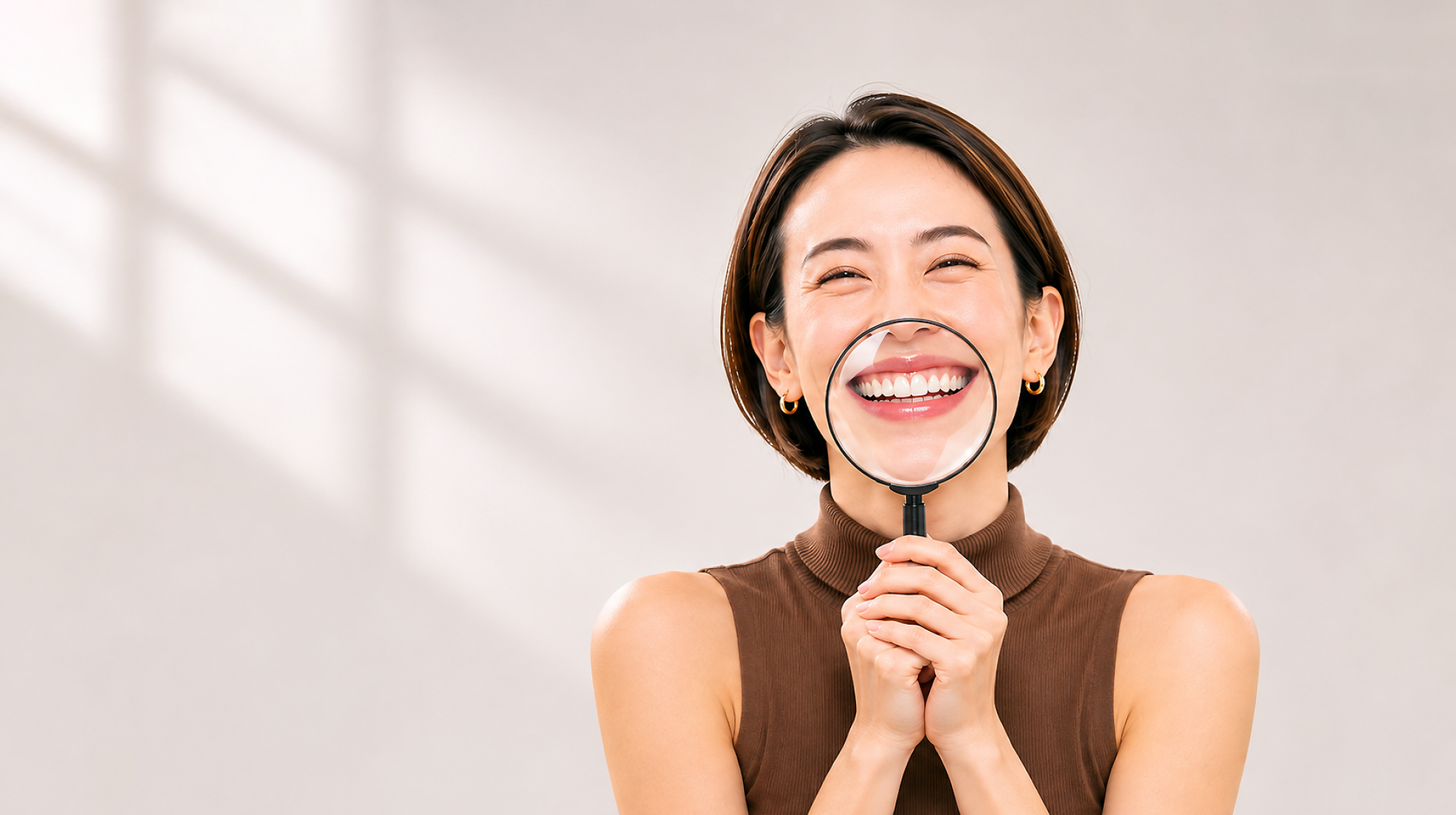
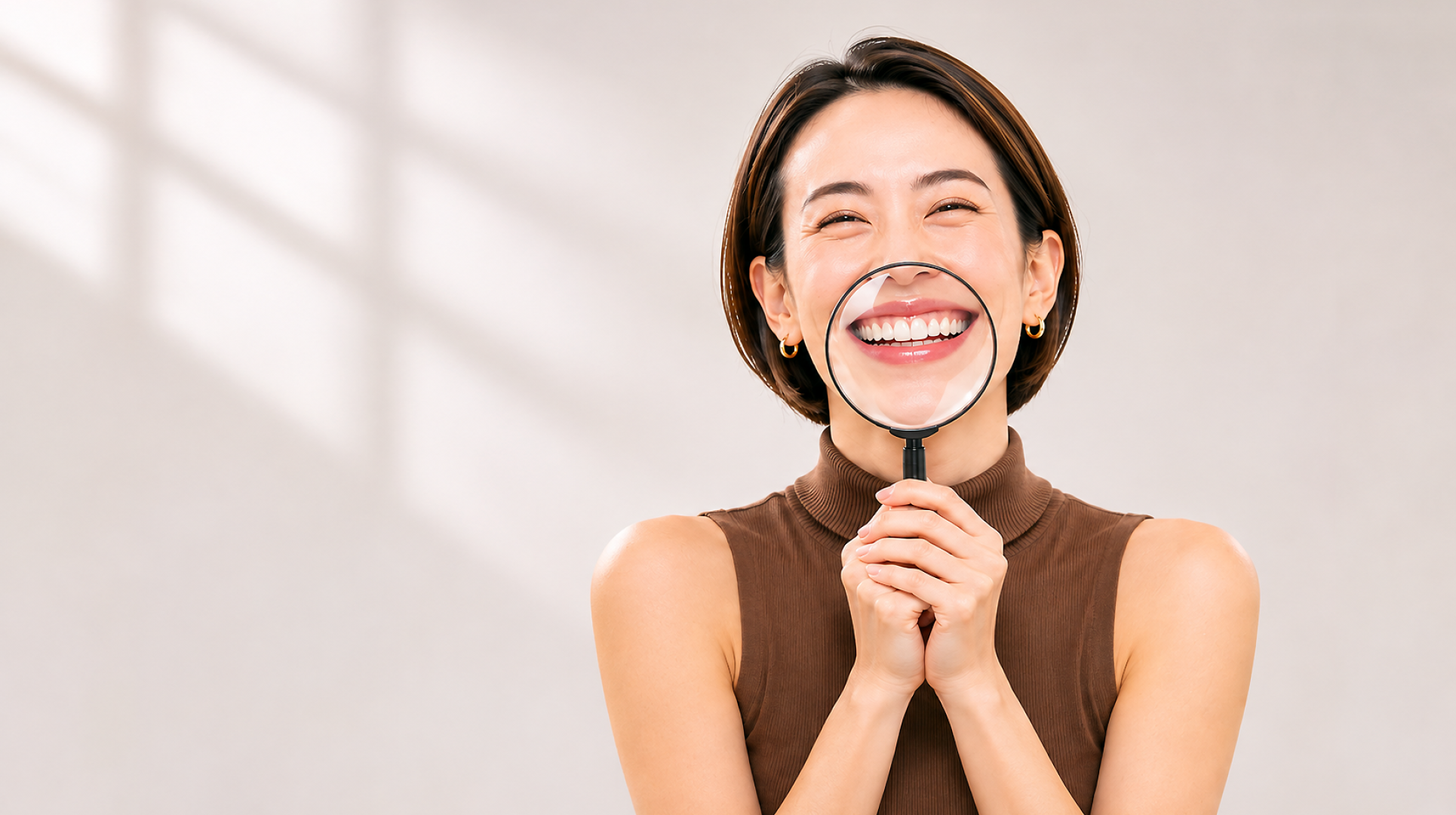
Update B portrait, solid header and latest editorial refinements

diff --git a/smile-rwd-B/index.html b/smile-rwd-B/index.html
@@ -18,7 +18,7 @@
   <!-- 載入外觀樣式表與動態效果表 -->
   <link rel="stylesheet" href="styles.css">
   <link rel="stylesheet" href="animations.css">
-  <link rel="stylesheet" href="responsive.css?v=mobile-diet-card-height-221">
+  <link rel="stylesheet" href="responsive.css?v=b-soft-header-shadow-243">
 
   <style>
     /* 康健標準 Header 專屬樣式 */
@@ -116,7 +116,7 @@
     }
   </style>
   <link rel="stylesheet" href="typography.css?v=editorial-intro-164">
-  <link rel="stylesheet" href="hero-photo.css?v=b-copy-down20-226">
+  <link rel="stylesheet" href="hero-photo.css?v=b-copy-down5-250">
   <link href="https://fonts.googleapis.com/css2?family=Noto+Serif+TC:wght@900&amp;display=block&amp;text=%E7%9F%AF%E6%AD%A3%E5%89%8D%EF%BC%8C%E5%85%88%E7%9C%8B%E6%87%82%E4%BB%A3%E5%83%B9" rel="stylesheet">
 
   <script>document.documentElement.classList.add('fonts-pending');window.smileFontsReady=new Promise(function(resolve){window.resolveSmileFonts=resolve;});</script>
@@ -170,7 +170,7 @@
       <main id="editorial-main-content">
         <section class="w-full">
           <div class="photo-hero photo-hero-b">
- <div class="photo-hero-media"><img src="./images/hero-photo.png?v=227" alt="女性手持放大鏡，凸顯整齊明亮的笑容" width="1671" height="941" fetchpriority="high" decoding="async"></div>
+ <div class="photo-hero-media"><img src="./images/hero-photo-cover-reference-v6.png?v=249" alt="女性手持放大鏡，凸顯整齊明亮的笑容" width="1671" height="941" fetchpriority="high" decoding="async"></div>
  <div class="photo-hero-copy"><div class="photo-hero-copy-inner"><h1><span>矯正前，</span><span>先看懂代價</span></h1><p>打造完美笑容的安心法則</p></div></div>
  <button type="button" class="photo-hero-scroll" aria-label="捲動至內容"><svg viewBox="0 0 24 24" fill="none" stroke="currentColor" stroke-width="2" aria-hidden="true"><path d="m6 9 6 6 6-6"/></svg></button>
 </div>
@@ -201,13 +201,13 @@
                 <div class="shared-editorial">
                   <div class="w-9 sm:w-10 h-2.5 sm:h-3 bg-[#ffb400] mx-auto mb-4 chapter-heading-accent"></div>
                   <h2 class="type-normalized font-black text-[#1e4d9d] mb-5 font-sans leading-snug mx-auto transition-all" style="font-size: var(--editorial-title-size, 38px); letter-spacing: var(--editorial-title-spacing, 1.2px); text-align: var(--editorial-title-align, center);" data-type="chapter"><span class="">牙齒美學正夯！從咬合治療到笑容投資</span></h2>
-                  <div class="text-[#1e4d9d] mb-10 sm:mb-12 font-medium transition-all editorial-justify" style="font-size: var(--editorial-intro-size, 18px); line-height: var(--editorial-intro-line-height, 1.95); letter-spacing: var(--editorial-intro-spacing, 0.6px);"><p class="type-normalized " data-type="intro">牙齒矯正屬於全自費的牙科醫療，實際價格雖然依病例與治療計劃而異，但每次矯正幾乎平均為10萬元起跳。然而，矯正一口好牙依然是趨之若鶩。這樣的「燦笑經濟」能成形，也和30年來，家庭消費能力提升、健康意識抬頭密不可分。</p></div>
+                  <div class="text-[#1e4d9d] mb-10 sm:mb-12 font-medium transition-all editorial-justify" style="font-size: var(--editorial-intro-size, 18px); line-height: var(--editorial-intro-line-height, 1.95); letter-spacing: var(--editorial-intro-spacing, 0.6px);"><p class="type-normalized " data-type="intro">牙齒矯正屬於全自費的牙科治療，費用依個案與治療計劃而異。儘管每次矯正平均10萬元起跳，仍吸引不同世代投入。</p></div>
                   <div class="tooth-stats grid grid-cols-2 sm:flex sm:flex-row items-center justify-center mx-auto mb-10 sm:mb-14 gap-2.5 sm:gap-4" style="max-width: calc(1500px);">
                     <div class="relative aspect-[1016/893] w-full mx-auto group" style="max-width: 750px;">
                       <img alt="牙科自費療程關注度" class="w-full h-full object-contain select-none pointer-events-none" src="./images/tooth.png">
                       <div class="absolute inset-x-0 flex flex-col items-center px-1.5 sm:px-6 text-center select-none pointer-events-none transition-all duration-100" style="top: 22%;">
                         <h3 class="type-normalized font-black text-[#1e4d9d] leading-tight text-center transition-all" style="font-size: clamp(11px, 2.35vw, 23.5px); letter-spacing: 1px;" data-type="chart-title">牙科自費療程關注度</h3>
-                        <p class="type-normalized text-[#1e5fa8] font-semibold tracking-wide mt-0.5 sm:mt-1 transition-all" style="font-size: clamp(9px, 1.6vw, 15px);" data-type="chart-caption">矯正、隱形矯正、美白占</p>
+                        <p class="type-normalized text-[#1e5fa8] font-semibold tracking-wide mt-0.5 sm:mt-1 transition-all" style="font-size: clamp(9px, 1.6vw, 15px);" data-type="chart-caption">矯正、隱形矯正、美白佔</p>
                         <div class="relative inline-flex items-baseline justify-center mt-0.5 sm:mt-1.5">
                           <div class="flex items-baseline justify-center gap-0.5 sm:gap-1">
                             <span data-stat-counter="aesthetic" data-target="38" data-decimals="0" class="font-black text-[#1e4d9d] font-montserrat-alt tracking-tight leading-none transition-all" style="font-size: clamp(24px, 5.8vw, 88px);">38</span>
@@ -223,7 +223,7 @@
                       <img alt="受訪45歲以上民眾" class="w-full h-full object-contain select-none pointer-events-none" src="./images/tooth.png">
                       <div class="absolute inset-x-0 flex flex-col items-center px-1.5 sm:px-6 text-center select-none pointer-events-none transition-all duration-100" style="top: 22%;">
                         <h3 class="type-normalized font-black text-[#1e4d9d] leading-tight text-center transition-all" style="font-size: clamp(11px, 2.35vw, 23.5px); letter-spacing: 1px;" data-type="chart-title">受訪45歲以上民眾</h3>
-                        <p class="type-normalized text-[#1e5fa8] font-semibold tracking-wide mt-0.5 sm:mt-1 transition-all" style="font-size: clamp(9px, 1.6vw, 15px);" data-type="chart-caption">45 歲以上近 2 年矯正者佔</p>
+                        <p class="type-normalized text-[#1e5fa8] font-semibold tracking-wide mt-0.5 sm:mt-1 transition-all" style="font-size: clamp(9px, 1.6vw, 15px);" data-type="chart-caption">45歲以上近2年矯正者佔</p>
                         <div class="relative inline-flex items-baseline justify-center mt-0.5 sm:mt-1.5">
                           <div class="flex items-baseline justify-center gap-0.5 sm:gap-1">
                             <span data-stat-counter="adult-ortho" data-target="10" data-decimals="0" class="font-black text-[#1e4d9d] font-montserrat-alt tracking-tight leading-none transition-all" style="font-size: clamp(24px, 5.8vw, 88px);">10</span>
@@ -236,12 +236,12 @@
                       </div>
                     </div>
                   </div>
-                  <div class="mb-8 sm:mb-10 px-1"><p class="type-normalized text-[#1e4d9d] font-medium transition-all editorial-justify" style="font-size: clamp(15px, 2.8vw, var(--editorial-intro-size, 18px)); line-height: var(--editorial-intro-line-height, 1.95); letter-spacing: var(--editorial-intro-spacing, 0.6px);" data-type="intro">30 年來，家庭消費能力提升，醫療保健支出增加，為「燦笑經濟」提供發展條件。牙醫診所數量也持續增加，反映市場的擴大。</p></div>
+                  <div class="mb-8 sm:mb-10 px-1"><p class="type-normalized text-[#1e4d9d] font-medium transition-all editorial-justify" style="font-size: clamp(15px, 2.8vw, var(--editorial-intro-size, 18px)); line-height: var(--editorial-intro-line-height, 1.95); letter-spacing: var(--editorial-intro-spacing, 0.6px);" data-type="intro">30年來，家庭消費能力提升，醫療保健支出增加，為「燦笑經濟」提供發展條件。牙醫診所數量也持續增加，反映市場的擴大。</p></div>
                   
                   <!-- 卡片 1：移除右上自調按鈕 -->
                   <div class="bg-white relative transition-all mb-8 group trend-card-adaptive" style="--desktop-border-thickness: 15.5px; border-width: var(--card-border-thickness, 2px); border-color: rgb(30, 77, 157); border-style: solid; border-radius: clamp(16px, 4vw, 20px);">
                     <div class="flex items-start justify-between">
-                      <div class="type-normalized inline-flex items-center justify-center bg-[#1e4d9d] text-white font-black tracking-wide transition-all shadow-none" style="font-size: clamp(12px, 3.4vw, 28px); padding: 10px clamp(12px, 3.2vw, 48px) 12px; line-height: 1.25; margin-top: calc(-1 * var(--card-border-thickness, 2px)); margin-left: calc(-1 * var(--card-border-thickness, 2px)); border-radius: clamp(16px, 4vw, 20px) 0px 24px; max-width: calc(100% - 24px); box-sizing: border-box;" data-type="subsection">平均每戶家庭 <span class="trend-label-year"><span class="trend-label-numerals">1</span> 年</span>醫療保健支出</div>
+                      <div class="type-normalized inline-flex items-center justify-center bg-[#1e4d9d] text-white font-black tracking-wide transition-all shadow-none" style="font-size: clamp(12px, 3.4vw, 28px); padding: 10px clamp(12px, 3.2vw, 48px) 12px; line-height: 1.25; margin-top: calc(-1 * var(--card-border-thickness, 2px)); margin-left: calc(-1 * var(--card-border-thickness, 2px)); border-radius: clamp(16px, 4vw, 20px) 0px 24px; max-width: calc(100% - 24px); box-sizing: border-box;" data-type="subsection">平均每戶家庭 <span class="trend-label-year"><span class="trend-label-numerals">1</span>年</span>醫療保健支出，30年狂飆128%</div>
                     </div>
                     <div class="px-3.5 sm:px-10 transition-all" style="padding-top: 0px; padding-bottom: 0px;">
                       <div class="grid grid-cols-1 sm:grid-cols-2 items-center gap-4 sm:gap-8">
@@ -277,9 +277,9 @@
 
                 <!-- 註釋：往上移靠近上面的框 -->
                 <div class="trend-notes max-w-5xl mx-auto space-y-1.5 -mt-3 sm:-mt-2 pt-0 text-[11px] sm:text-xs text-[#1e4d9d]/80 font-medium tracking-[0.02em]">
-                  <p class="type-normalized " data-type="note">註 1: 數位新媒體「台灣好醫生」2026 年第 1 季牙科自費療程網路關注度調查。</p>
-                  <p class="type-normalized " data-type="note">註 2: 翔評互動（AlleyPin）針對 618 名 45 歲以上民眾的調查。</p>
-                  <p class="type-normalized " data-type="note">註 3: 統一超商《2026 Q1 財務簡報》：2025 年 7-ELEVEN 共 7,248 家。</p>
+                  <p class="type-normalized " data-type="note">註1: 數位新媒體「台灣好醫生」2026年第1季牙科自費療程網路關注度調查。</p>
+                  <p class="type-normalized " data-type="note">註2: 翔評互動（AlleyPin）針對618名45歲以上民眾的調查。</p>
+                  <p class="type-normalized " data-type="note">註3: 統一超商《2026 Q1財務簡報》：2025年7-ELEVEN 共7,248家。</p>
                 </div>
               </div>
             </div>
@@ -296,7 +296,7 @@
                   <h2 class="type-normalized font-black text-[#1e4d9d] text-center mb-3 font-sans leading-snug mx-auto transition-all" style="font-size: var(--editorial-title-size, 36px); letter-spacing: var(--editorial-title-spacing, 1.2px);" data-type="chapter"><span>牙齒不整齊就要矯正嗎？</span><span class="inline-flex items-baseline"><span class="font-sans font-black text-[1.22em] leading-none inline-block px-[0.5px] transform translate-y-[2.5px]" style="font-weight: 900;">8</span><span>種適用矯正族群</span></span></h2>
                   
                   <!-- 單獨區塊2桌面版前言居中 -->
-                  <p class="type-normalized text-[#1e4d9d] mb-10 sm:mb-12 font-medium transition-all text-center mx-auto max-w-2xl assessment-population-intro" style="font-size: var(--editorial-intro-size, 18px); line-height: var(--editorial-intro-line-height, 1.95); letter-spacing: var(--editorial-intro-spacing, 0.6px);" data-type="intro">齒列與咬合異常可能影響咀嚼。適合矯正的常見情形包括：</p>
+                  <p class="type-normalized text-[#1e4d9d] mb-10 sm:mb-12 font-medium transition-all text-center mx-auto max-w-2xl assessment-population-intro" style="font-size: var(--editorial-intro-size, 18px); line-height: var(--editorial-intro-line-height, 1.95); letter-spacing: var(--editorial-intro-spacing, 0.6px);" data-type="intro">齒列與咬合異常可能影響咀嚼。你適合矯正嗎？</p>
                   
                   <!-- 先天型：底線移除、與下方卡片距離適中 mb-4 sm:mb-4.5 -->
                   <div class="mb-10 sm:mb-14 text-center">
@@ -358,7 +358,7 @@
 
                       <!-- Slide 1: 是否拔牙 -->
                       <div data-assessment-slide-desktop="1" class="hidden">
-                        <div class="mb-6 sm:mb-8 text-left"><p class="type-normalized text-[#1e4d9d] font-medium text-left leading-relaxed transition-all" style="--assessment-original-size:23px;--assessment-original-weight:500;--assessment-original-leading:1.625;--assessment-original-spacing:normal;font-size: 23px;" data-type="body"><span class="text-[#dc2626] font-black mr-0.5">不一定</span>。主要看齒列、咬合與臉部側面外觀。需拔牙矯正者約占病例的 6～7 成，但是否拔牙，仍須由醫師檢查、診斷，並與病人充分討論。</p></div>
+                        <div class="mb-6 sm:mb-8 text-left"><p class="type-normalized text-[#1e4d9d] font-medium text-left leading-relaxed transition-all" style="--assessment-original-size:23px;--assessment-original-weight:500;--assessment-original-leading:1.625;--assessment-original-spacing:normal;font-size: 23px;" data-type="body"><span class="text-[#dc2626] font-black mr-0.5">不一定</span>。主要看齒列、咬合與臉部側面外觀。需拔牙矯正者約佔病例的6～7成，但是否拔牙，仍須由醫師檢查、診斷，並與病人充分討論。</p></div>
                         <div class="flex flex-col md:flex-row items-start md:items-end justify-between gap-6 relative">
                           <div class="flex-1 text-left space-y-5 sm:space-y-7 md:pr-4 pb-2 md:pb-4 max-w-xl">
                             <div><div class="flex items-center gap-2.5 mb-1.5 sm:mb-2"><span class="rounded-full bg-[#1e4d9d] inline-block shrink-0 shadow-none" style="width: 18px; height: 18px;"></span><h4 class="type-normalized font-black text-[#1e4d9d] tracking-wide leading-tight" style="--assessment-original-size:clamp(14px, 3.8vw, 28px);--assessment-original-weight:900;--assessment-original-leading:1.25;--assessment-original-spacing:.025em;font-size: clamp(14px, 3.8vw, 28px);" data-type="card-title">可能需拔牙</h4></div><p class="type-normalized text-[#1e4d9d] font-medium leading-relaxed tracking-wide" style="--assessment-original-size:clamp(12px, 3.2vw, 23px);--assessment-original-weight:500;--assessment-original-leading:1.625;--assessment-original-spacing:.025em;font-size: clamp(12px, 3.2vw, 23px);" data-type="body">牙齒擁擠、外暴或臉型外突，需騰出空間，讓牙齒排整齊或往內移。</p></div>
@@ -405,7 +405,7 @@
                 
                 <!-- 桌面版完整表格：模型圖距下緣更近、hover 背景色更明顯 -->
                 <div class="mobile-comparison" data-comparison-tabs>
-<div class="comparison-tablist" role="tablist" aria-label="選擇矯正方式"><button type="button" role="tab" id="comparison-tab-0" aria-controls="comparison-panel-0" aria-selected="true" tabindex="0" class="type-normalized" data-type="tab">傳統矯正</button><button type="button" role="tab" id="comparison-tab-1" aria-controls="comparison-panel-1" aria-selected="false" tabindex="-1" class="type-normalized" data-type="tab">隱形牙套</button></div><div class="comparison-panels"><div class="comparison-panel" role="tabpanel" id="comparison-panel-0" aria-labelledby="comparison-tab-0" aria-hidden="false" tabindex="0" ><div class="comparison-model"><img src="./images/trad_braces_cutout.png" alt="傳統矯正牙齒模型" width="180" height="120"></div><dl class="comparison-details"><div class="comparison-detail"><dt class="type-normalized" data-type="meta">配戴外觀</dt><dd><strong class="type-normalized" data-type="emphasis">較明顯，可能產生摩擦感</strong></dd></div><div class="comparison-detail"><dt class="type-normalized" data-type="meta">治療費用</dt><dd><strong class="type-normalized" data-type="emphasis">全口約 10～20 萬元</strong></dd></div><div class="comparison-detail"><dt class="type-normalized" data-type="meta">口腔清潔</dt><dd><strong class="type-normalized" data-type="emphasis">無法拆下，須搭配牙間刷、牙間穿引器等工具</strong></dd></div><div class="comparison-detail"><dt class="type-normalized" data-type="meta">牙齒移動</dt><dd><strong class="type-normalized" data-type="emphasis">控制度高，能處理複雜移動</strong></dd></div><div class="comparison-detail"><dt class="type-normalized" data-type="meta">回診安排</dt><dd><strong class="type-normalized" data-type="emphasis">較頻繁，約每月一次</strong></dd></div><div class="comparison-detail"><dt class="type-normalized" data-type="meta">療程時間</dt><dd><strong class="type-normalized" data-type="emphasis">較短</strong></dd></div><div class="comparison-detail"><dt class="type-normalized" data-type="meta">適用情況</dt><dd><strong class="type-normalized" data-type="emphasis">適用範圍較廣，包括複雜病例</strong></dd></div></dl></div><div class="comparison-panel is-inactive" role="tabpanel" id="comparison-panel-1" aria-labelledby="comparison-tab-1" aria-hidden="true" tabindex="-1" inert><div class="comparison-model"><img src="./images/clear_aligner_cutout.png" alt="隱形牙套牙齒模型" width="180" height="120"></div><dl class="comparison-details"><div class="comparison-detail"><dt class="type-normalized" data-type="meta">配戴外觀</dt><dd><strong class="type-normalized" data-type="emphasis">透明、表面平滑不刮肉</strong></dd></div><div class="comparison-detail"><dt class="type-normalized" data-type="meta">治療費用</dt><dd><strong class="type-normalized" data-type="emphasis">全口約 20～40 萬元</strong></dd></div><div class="comparison-detail"><dt class="type-normalized" data-type="meta">口腔清潔</dt><dd><strong class="type-normalized" data-type="emphasis">可拆下，刷牙與使用牙線較方便</strong></dd></div><div class="comparison-detail"><dt class="type-normalized" data-type="meta">牙齒移動</dt><dd><strong class="type-normalized" data-type="emphasis">拉力溫和，牙齒移動較受限制</strong></dd></div><div class="comparison-detail"><dt class="type-normalized" data-type="meta">回診安排</dt><dd><strong class="type-normalized" data-type="emphasis">回診間隔較長</strong></dd></div><div class="comparison-detail"><dt class="type-normalized" data-type="meta">療程時間</dt><dd><strong class="type-normalized" data-type="emphasis">較長</strong></dd></div><div class="comparison-detail"><dt class="type-normalized" data-type="meta">適用情況</dt><dd><strong class="type-normalized" data-type="emphasis">多用於輕至中度病例</strong></dd></div></dl></div></div></div>
+<div class="comparison-tablist" role="tablist" aria-label="選擇矯正方式"><button type="button" role="tab" id="comparison-tab-0" aria-controls="comparison-panel-0" aria-selected="true" tabindex="0" class="type-normalized" data-type="tab">傳統矯正</button><button type="button" role="tab" id="comparison-tab-1" aria-controls="comparison-panel-1" aria-selected="false" tabindex="-1" class="type-normalized" data-type="tab">隱形牙套</button></div><div class="comparison-panels"><div class="comparison-panel" role="tabpanel" id="comparison-panel-0" aria-labelledby="comparison-tab-0" aria-hidden="false" tabindex="0" ><div class="comparison-model"><img src="./images/trad_braces_cutout.png" alt="傳統矯正牙齒模型" width="180" height="120"></div><dl class="comparison-details"><div class="comparison-detail"><dt class="type-normalized" data-type="meta">配戴外觀</dt><dd><strong class="type-normalized" data-type="emphasis">較明顯，可能產生摩擦感</strong></dd></div><div class="comparison-detail"><dt class="type-normalized" data-type="meta">治療費用</dt><dd><strong class="type-normalized" data-type="emphasis">全口約10～20萬元</strong></dd></div><div class="comparison-detail"><dt class="type-normalized" data-type="meta">口腔清潔</dt><dd><strong class="type-normalized" data-type="emphasis">無法拆下，須搭配牙間刷、牙間穿引器等工具</strong></dd></div><div class="comparison-detail"><dt class="type-normalized" data-type="meta">牙齒移動</dt><dd><strong class="type-normalized" data-type="emphasis">控制度高，能處理複雜移動</strong></dd></div><div class="comparison-detail"><dt class="type-normalized" data-type="meta">回診安排</dt><dd><strong class="type-normalized" data-type="emphasis">較頻繁，約每月1次</strong></dd></div><div class="comparison-detail"><dt class="type-normalized" data-type="meta">療程時間</dt><dd><strong class="type-normalized" data-type="emphasis">較短</strong></dd></div><div class="comparison-detail"><dt class="type-normalized" data-type="meta">適用情況</dt><dd><strong class="type-normalized" data-type="emphasis">適用範圍較廣，包括複雜病例</strong></dd></div></dl></div><div class="comparison-panel is-inactive" role="tabpanel" id="comparison-panel-1" aria-labelledby="comparison-tab-1" aria-hidden="true" tabindex="-1" inert><div class="comparison-model"><img src="./images/clear_aligner_cutout.png" alt="隱形牙套牙齒模型" width="180" height="120"></div><dl class="comparison-details"><div class="comparison-detail"><dt class="type-normalized" data-type="meta">配戴外觀</dt><dd><strong class="type-normalized" data-type="emphasis">透明、表面平滑不刮肉</strong></dd></div><div class="comparison-detail"><dt class="type-normalized" data-type="meta">治療費用</dt><dd><strong class="type-normalized" data-type="emphasis">全口約20～40萬元</strong></dd></div><div class="comparison-detail"><dt class="type-normalized" data-type="meta">口腔清潔</dt><dd><strong class="type-normalized" data-type="emphasis">可拆下，刷牙與使用牙線較方便</strong></dd></div><div class="comparison-detail"><dt class="type-normalized" data-type="meta">牙齒移動</dt><dd><strong class="type-normalized" data-type="emphasis">拉力溫和，牙齒移動較受限制</strong></dd></div><div class="comparison-detail"><dt class="type-normalized" data-type="meta">回診安排</dt><dd><strong class="type-normalized" data-type="emphasis">回診間隔較長</strong></dd></div><div class="comparison-detail"><dt class="type-normalized" data-type="meta">療程時間</dt><dd><strong class="type-normalized" data-type="emphasis">較長</strong></dd></div><div class="comparison-detail"><dt class="type-normalized" data-type="meta">適用情況</dt><dd><strong class="type-normalized" data-type="emphasis">多用於輕至中度病例</strong></dd></div></dl></div></div></div>
 <div class="comparison-table mb-4 relative transition-all" style="padding-top: 56px; margin-top: 16px;">
                   <div class="table-scroll" tabindex="0" role="region" aria-label="矯正方式比較表，可左右滑動">
                     <table class="w-full text-left border-separate border-spacing-0 shadow-none transition-all bg-transparent min-w-[480px] sm:min-w-[620px]" style="border-width: 3px; border-style: solid; border-color: rgb(30, 77, 157); border-radius: 16px;">
@@ -422,10 +422,10 @@
                       </thead>
                       <tbody class="text-[#1e4d9d] bg-white">
                         <tr class="hover:bg-blue-100/60 transition-colors relative group/row"><td class="type-normalized py-3.5 sm:py-5 px-3 sm:px-6 font-bold text-[#1e4d9d] align-top whitespace-nowrap sticky left-0 bg-inherit z-10 border-r border-slate-100 sm:border-r-0 shadow-[2px_0_5px_-2px_rgba(0,0,0,0.08)] sm:shadow-none" style="font-size: clamp(13px, 3.5vw, 18px); border-bottom: 2px solid rgb(226, 232, 240);" data-type="body"><div class="flex items-center gap-1.5"><span class="">配戴外觀</span></div></td><td class="type-normalized py-3.5 sm:py-5 px-3 sm:px-6 align-top leading-relaxed text-[#1e4d9d]" style="font-size: clamp(13px, 3.5vw, 18px); border-bottom: 2px solid rgb(226, 232, 240);" data-type="body"><div class="font-bold text-[#1e4d9d]"><span class="">較明顯，可能產生摩擦感</span></div></td><td class="type-normalized py-3.5 sm:py-5 px-3 sm:px-6 align-top leading-relaxed text-[#1e4d9d]" style="font-size: clamp(13px, 3.5vw, 18px); border-bottom: 2px solid rgb(226, 232, 240);" data-type="body"><div class="font-bold text-[#1e4d9d]"><span class="">透明、表面平滑不刮肉</span></div></td></tr>
-                        <tr class="hover:bg-blue-100/60 transition-colors relative group/row"><td class="type-normalized py-3.5 sm:py-5 px-3 sm:px-6 font-bold text-[#1e4d9d] align-top whitespace-nowrap sticky left-0 bg-inherit z-10 border-r border-slate-100 sm:border-r-0 shadow-[2px_0_5px_-2px_rgba(0,0,0,0.08)] sm:shadow-none" style="font-size: clamp(13px, 3.5vw, 18px); border-bottom: 2px solid rgb(226, 232, 240);" data-type="body"><div class="flex items-center gap-1.5"><span class="">治療費用</span></div></td><td class="type-normalized py-3.5 sm:py-5 px-3 sm:px-6 align-top leading-relaxed text-[#1e4d9d]" style="font-size: clamp(13px, 3.5vw, 18px); border-bottom: 2px solid rgb(226, 232, 240);" data-type="body"><div class="font-bold text-[#1e4d9d]"><span class="">全口約 10～20 萬元</span></div></td><td class="type-normalized py-3.5 sm:py-5 px-3 sm:px-6 align-top leading-relaxed text-[#1e4d9d]" style="font-size: clamp(13px, 3.5vw, 18px); border-bottom: 2px solid rgb(226, 232, 240);" data-type="body"><div class="font-bold text-[#1e4d9d]"><span class="">全口約 20～40 萬元</span></div></td></tr>
+                        <tr class="hover:bg-blue-100/60 transition-colors relative group/row"><td class="type-normalized py-3.5 sm:py-5 px-3 sm:px-6 font-bold text-[#1e4d9d] align-top whitespace-nowrap sticky left-0 bg-inherit z-10 border-r border-slate-100 sm:border-r-0 shadow-[2px_0_5px_-2px_rgba(0,0,0,0.08)] sm:shadow-none" style="font-size: clamp(13px, 3.5vw, 18px); border-bottom: 2px solid rgb(226, 232, 240);" data-type="body"><div class="flex items-center gap-1.5"><span class="">治療費用</span></div></td><td class="type-normalized py-3.5 sm:py-5 px-3 sm:px-6 align-top leading-relaxed text-[#1e4d9d]" style="font-size: clamp(13px, 3.5vw, 18px); border-bottom: 2px solid rgb(226, 232, 240);" data-type="body"><div class="font-bold text-[#1e4d9d]"><span class="">全口約10～20萬元</span></div></td><td class="type-normalized py-3.5 sm:py-5 px-3 sm:px-6 align-top leading-relaxed text-[#1e4d9d]" style="font-size: clamp(13px, 3.5vw, 18px); border-bottom: 2px solid rgb(226, 232, 240);" data-type="body"><div class="font-bold text-[#1e4d9d]"><span class="">全口約20～40萬元</span></div></td></tr>
                         <tr class="hover:bg-blue-100/60 transition-colors relative group/row"><td class="type-normalized py-3.5 sm:py-5 px-3 sm:px-6 font-bold text-[#1e4d9d] align-middle whitespace-nowrap sticky left-0 bg-inherit z-10 border-r border-slate-100 sm:border-r-0 shadow-[2px_0_5px_-2px_rgba(0,0,0,0.08)] sm:shadow-none" style="font-size: clamp(13px, 3.5vw, 18px); border-bottom: 2px solid rgb(226, 232, 240);" data-type="body"><div class="flex items-center gap-1.5"><span class="">口腔清潔</span></div></td><td class="type-normalized py-3.5 sm:py-5 px-3 sm:px-6 align-middle leading-relaxed text-[#1e4d9d]" style="font-size: clamp(13px, 3.5vw, 18px); border-bottom: 2px solid rgb(226, 232, 240);" data-type="body"><div class="font-bold text-[#1e4d9d]"><span class="">無法拆下</span></div><div class="text-[#1e4d9d]/80 font-normal mt-1 leading-normal" style="font-size: clamp(11px, 3vw, 16px);"><span class="">須搭配牙間刷、牙間穿引器等工具</span></div></td><td class="type-normalized py-3.5 sm:py-5 px-3 sm:px-6 align-middle leading-relaxed text-[#1e4d9d]" style="font-size: clamp(13px, 3.5vw, 18px); border-bottom: 2px solid rgb(226, 232, 240);" data-type="body"><div class="font-bold text-[#1e4d9d]"><span class="">可拆下</span></div><div class="text-[#1e4d9d]/80 font-normal mt-1 leading-normal" style="font-size: clamp(11px, 3vw, 16px);"><span class="">刷牙與使用牙線較方便</span></div></td></tr>
                         <tr class="hover:bg-blue-100/60 transition-colors relative group/row"><td class="type-normalized py-3.5 sm:py-5 px-3 sm:px-6 font-bold text-[#1e4d9d] align-top whitespace-nowrap sticky left-0 bg-inherit z-10 border-r border-slate-100 sm:border-r-0 shadow-[2px_0_5px_-2px_rgba(0,0,0,0.08)] sm:shadow-none" style="font-size: clamp(13px, 3.5vw, 18px); border-bottom: 2px solid rgb(226, 232, 240);" data-type="body"><div class="flex items-center gap-1.5"><span class="">牙齒移動</span></div></td><td class="type-normalized py-3.5 sm:py-5 px-3 sm:px-6 align-top leading-relaxed text-[#1e4d9d]" style="font-size: clamp(13px, 3.5vw, 18px); border-bottom: 2px solid rgb(226, 232, 240);" data-type="body"><div class="font-bold text-[#1e4d9d]"><span class="">控制度高，能處理複雜移動</span></div></td><td class="type-normalized py-3.5 sm:py-5 px-3 sm:px-6 align-top leading-relaxed text-[#1e4d9d]" style="font-size: clamp(13px, 3.5vw, 18px); border-bottom: 2px solid rgb(226, 232, 240);" data-type="body"><div class="font-bold text-[#1e4d9d]"><span class="">拉力溫和，牙齒移動較受限制</span></div></td></tr>
-                        <tr class="hover:bg-blue-100/60 transition-colors relative group/row"><td class="type-normalized py-3.5 sm:py-5 px-3 sm:px-6 font-bold text-[#1e4d9d] align-top whitespace-nowrap sticky left-0 bg-inherit z-10 border-r border-slate-100 sm:border-r-0 shadow-[2px_0_5px_-2px_rgba(0,0,0,0.08)] sm:shadow-none" style="font-size: clamp(13px, 3.5vw, 18px); border-bottom: 2px solid rgb(226, 232, 240);" data-type="body"><div class="flex items-center gap-1.5"><span class="">回診安排</span></div></td><td class="type-normalized py-3.5 sm:py-5 px-3 sm:px-6 align-top leading-relaxed text-[#1e4d9d]" style="font-size: clamp(13px, 3.5vw, 18px); border-bottom: 2px solid rgb(226, 232, 240);" data-type="body"><div class="font-bold text-[#1e4d9d]"><span class="">較頻繁，約每月一次</span></div></td><td class="type-normalized py-3.5 sm:py-5 px-3 sm:px-6 align-top leading-relaxed text-[#1e4d9d]" style="font-size: clamp(13px, 3.5vw, 18px); border-bottom: 2px solid rgb(226, 232, 240);" data-type="body"><div class="font-bold text-[#1e4d9d]"><span class="">回診間隔較長</span></div></td></tr>
+                        <tr class="hover:bg-blue-100/60 transition-colors relative group/row"><td class="type-normalized py-3.5 sm:py-5 px-3 sm:px-6 font-bold text-[#1e4d9d] align-top whitespace-nowrap sticky left-0 bg-inherit z-10 border-r border-slate-100 sm:border-r-0 shadow-[2px_0_5px_-2px_rgba(0,0,0,0.08)] sm:shadow-none" style="font-size: clamp(13px, 3.5vw, 18px); border-bottom: 2px solid rgb(226, 232, 240);" data-type="body"><div class="flex items-center gap-1.5"><span class="">回診安排</span></div></td><td class="type-normalized py-3.5 sm:py-5 px-3 sm:px-6 align-top leading-relaxed text-[#1e4d9d]" style="font-size: clamp(13px, 3.5vw, 18px); border-bottom: 2px solid rgb(226, 232, 240);" data-type="body"><div class="font-bold text-[#1e4d9d]"><span class="">較頻繁，約每月1次</span></div></td><td class="type-normalized py-3.5 sm:py-5 px-3 sm:px-6 align-top leading-relaxed text-[#1e4d9d]" style="font-size: clamp(13px, 3.5vw, 18px); border-bottom: 2px solid rgb(226, 232, 240);" data-type="body"><div class="font-bold text-[#1e4d9d]"><span class="">回診間隔較長</span></div></td></tr>
                         <tr class="hover:bg-blue-100/60 transition-colors relative group/row"><td class="type-normalized py-3.5 sm:py-5 px-3 sm:px-6 font-bold text-[#1e4d9d] align-top whitespace-nowrap sticky left-0 bg-inherit z-10 border-r border-slate-100 sm:border-r-0 shadow-[2px_0_5px_-2px_rgba(0,0,0,0.08)] sm:shadow-none" style="font-size: clamp(13px, 3.5vw, 18px); border-bottom: 2px solid rgb(226, 232, 240);" data-type="body"><div class="flex items-center gap-1.5"><span class="">療程時間</span></div></td><td class="type-normalized py-3.5 sm:py-5 px-3 sm:px-6 align-top leading-relaxed text-[#1e4d9d]" style="font-size: clamp(13px, 3.5vw, 18px); border-bottom: 2px solid rgb(226, 232, 240);" data-type="body"><div class="font-bold text-[#1e4d9d]"><span class="">較短</span></div></td><td class="type-normalized py-3.5 sm:py-5 px-3 sm:px-6 align-top leading-relaxed text-[#1e4d9d]" style="font-size: clamp(13px, 3.5vw, 18px); border-bottom: 2px solid rgb(226, 232, 240);" data-type="body"><div class="font-bold text-[#1e4d9d]"><span class="">較長</span></div></td></tr>
                         <tr class="hover:bg-blue-100/60 transition-colors relative group/row"><td class="type-normalized py-3.5 sm:py-5 px-3 sm:px-6 font-bold text-[#1e4d9d] align-top whitespace-nowrap sticky left-0 bg-inherit z-10 border-r border-slate-100 sm:border-r-0 shadow-[2px_0_5px_-2px_rgba(0,0,0,0.08)] sm:shadow-none" style="font-size: clamp(13px, 3.5vw, 18px); border-bottom-width: medium; border-bottom-style: none; border-bottom-color: currentcolor; border-bottom-left-radius: 13px;" data-type="body"><div class="flex items-center gap-1.5"><span class="">適用情況</span></div></td><td class="type-normalized py-3.5 sm:py-5 px-3 sm:px-6 align-top leading-relaxed text-[#1e4d9d]" style="font-size: clamp(13px, 3.5vw, 18px); border-bottom-width: medium; border-bottom-style: none; border-bottom-color: currentcolor;" data-type="body"><div class="font-bold text-[#1e4d9d]"><span class="">適用範圍較廣，包括複雜病例</span></div></td><td class="type-normalized py-3.5 sm:py-5 px-3 sm:px-6 align-top leading-relaxed text-[#1e4d9d]" style="font-size: clamp(13px, 3.5vw, 18px); border-bottom-width: medium; border-bottom-style: none; border-bottom-color: currentcolor; border-bottom-right-radius: 13px;" data-type="body"><div class="font-bold text-[#1e4d9d]"><span class="">多用於輕至中度病例</span></div></td></tr>
                       </tbody>
@@ -465,14 +465,14 @@
   </section>
   <section class="care-block care-cleaning" aria-labelledby="care-cleaning-title">
    <h3 class="type-normalized care-speech" id="care-cleaning-title" data-type="subsection">戴牙套怎麼刷牙、維持口腔清潔？</h3>
-   <p class="type-normalized care-cleaning-intro" data-type="body">矯正期間要做好清潔，並定期 3～4 週回診檢查，避免牙齒排列整齊了，卻留下蛀牙或牙周病。</p>
+   <p class="type-normalized care-cleaning-intro" data-type="body">矯正期間要做好清潔，並定期3～4週回診檢查，避免牙齒排列整齊了，卻留下蛀牙或牙周病。</p>
    <div class="care-tool-labels">
     <div><h4 class="type-normalized care-pill" data-type="label">基本工具</h4><p class="type-normalized" data-type="body">牙刷、牙間刷、<br>矯正專用牙線</p></div>
     <div><h4 class="type-normalized care-pill" data-type="label">輔助工具</h4><p class="type-normalized" data-type="body">搭配含氟牙膏，依牙醫師<br class="care-desktop-break">建議使用其他含氟產品。</p></div>
    </div>
    <div class="care-image care-tools-image"><img src="./images/daily-care-cleaning-tools-selected.png?v=219" alt="牙刷、牙間刷、矯正牙線、含氟牙膏與漱口水" loading="eager" onload="this.hidden=false;this.parentElement.classList.add('has-image')" onerror="this.hidden=true;this.parentElement.classList.remove('has-image')"><span class="care-image-placeholder">圖片預留位置<br><small>daily-care-cleaning-tools-selected.png?v=219</small></span></div>
    <div class="care-brushing">
-    <h4 class="type-normalized care-pill" data-type="label">傳統矯正器潔牙 3 步驟</h4>
+    <h4 class="type-normalized care-pill" data-type="label">傳統矯正器潔牙3步驟</h4>
     <ol>
      <li><div class="care-numbered-heading"><span class="care-step-number" aria-hidden="true">1</span><strong class="type-normalized" data-type="card-title">牙刷分區刷</strong></div><p class="type-normalized" data-type="body">牙套靠牙齦側、牙套本身及靠咬合面側，都要刷到。</p></li>
      <li><div class="care-numbered-heading"><span class="care-step-number" aria-hidden="true">2</span><strong class="type-normalized" data-type="card-title">牙間刷補強</strong></div><p class="type-normalized" data-type="body">清潔牙縫與鋼線周圍。</p></li>
@@ -493,13 +493,15 @@
               <div class="mx-auto px-1 sm:px-4 transition-all duration-150" style="max-width: var(--editorial-container-width, 1024px);">
                 <div class="w-9 sm:w-10 h-1.5 sm:h-3 bg-[#ffb400] mx-auto mb-3 sm:mb-4 rounded-full sm:rounded-none chapter-heading-accent"></div>
                 <h2 class="type-normalized font-black text-[#1e4d9d] mb-3 sm:mb-5 font-sans leading-snug mx-auto transition-all text-xl sm:text-[length:var(--editorial-title-size,38px)] text-center" style="letter-spacing: var(--editorial-title-spacing, 1.2px);" data-type="chapter">拆掉牙套≠療程結束，如何守住矯正效果？</h2>
-                <p class="retention-intro type-normalized" data-type="intro">拆掉牙套後，牙齒仍可能移位。想維持成果，要注意 5 件事：</p>
+                <p class="retention-intro type-normalized" data-type="intro">拆掉牙套後，牙齒仍可能移位。想維持成果，要注意5件事：</p>
 <div class="retention-corner-layout"><ul class="retention-list"><li><h3 class="type-normalized" data-type="card-title"><img class="retention-red-check" src="./images/checklist-check.png" alt="" width="26" height="26">勤戴維持器</h3><p class="type-normalized" data-type="body">依醫師指示配戴維持器（固定式或活動式），別自行停戴。</p></li>
 <li><h3 class="type-normalized" data-type="card-title"><img class="retention-red-check" src="./images/checklist-check.png" alt="" width="26" height="26">清潔維持器</h3><p class="type-normalized" data-type="body">活動式維持器應定期清洗，不戴時放進專用盒。</p></li>
 <li><h3 class="type-normalized" data-type="card-title"><img class="retention-red-check" src="./images/checklist-check.png" alt="" width="26" height="26">定期回診</h3><p class="type-normalized" data-type="body">追蹤齒列與咬合，尤其仍在發育的孩子。</p></li>
 <li><h3 class="type-normalized" data-type="card-title"><img class="retention-red-check" src="./images/checklist-check.png" alt="" width="26" height="26">留意復位</h3><p class="type-normalized" data-type="body">牙齒可能被牙周韌帶拉回原位，或其他因素導致復位，額外處置須由醫師評估。</p></li>
 <li><h3 class="type-normalized" data-type="card-title"><img class="retention-red-check" src="./images/checklist-check.png" alt="" width="26" height="26">改掉不良習慣</h3><p class="type-normalized" data-type="body">例如舌吞嚥、吸手指等不良習慣，矯正後應配合改正。</p></li></ul><figure class="retention-corner-illustration"><img src="./images/retention-case-cutout.png" alt="透明維持器與藍色收納盒示意圖" width="1536" height="1024" loading="lazy" decoding="async"></figure></div>
-</div></div></section>
+<p class="expert-credit expert-credit-mobile type-normalized" data-type="note">諮詢專家：台北醫學大學附設醫院齒顎矯正科主任鄭信忠、中國醫藥大學附設醫院齒顎矯正科主任余建宏</p>
+</div></div>
+<p class="expert-credit expert-credit-desktop type-normalized" data-type="note">諮詢專家：台北醫學大學附設醫院齒顎矯正科主任鄭信忠、中國醫藥大學附設醫院齒顎矯正科主任余建宏</p></section>
 
         </div>
       </main>
@@ -550,7 +552,7 @@
           <li><a href="https://club.commonhealth.com.tw" target="_blank">大人社團</a></li>
           <li><a href="https://cancer.commonhealth.com.tw" target="_blank">癌症問康健</a></li>
         </ul>
-        <p>Copyright © 2026 康健雜誌（天下生活出版股份有限公司）All rights reserved.</p>
+        <p>Copyright © 2026康健雜誌（天下生活出版股份有限公司）All rights reserved.</p>
         <ul>
           <li><a href="https://member.cwg.tw/privacy-policy" target="_blank">隱私權政策</a></li>
           <li><a href="https://member.cwg.tw/register-rule" target="_blank">會員服務條款</a></li>
@@ -573,7 +575,7 @@
 
   <!-- JavaScript 互動腳本 (含漢堡選單、平滑錨點捲動、卡片翻轉、無阻礙輪播與數字累加動畫) -->
   <script src="interactions.js?v=remove-progress-156" defer></script>
-<script src="hero-entrance.js?v=font-stability-16" defer></script>
+<script src="hero-entrance.js?v=b-header-flush-244" defer></script>
 </body>
 </html>
 

diff --git a/smile-rwd-B/responsive.css b/smile-rwd-B/responsive.css
@@ -1347,3 +1347,44 @@ html.menu-open #ch-header #ch-nav-wrap>li>a:focus-visible{color:#1e4d9d}
 
 /* Remove excess space left below the raised food artwork on mobile. */
 @media(max-width:639px){#section-daily-care .care-food-image{margin-bottom:-4px}}
+
+/* Anchor the flip instruction to the card corner and improve readability. */
+#section-assessment .flip-card-hint{right:0!important;bottom:0!important;font-size:12px!important;line-height:1.4!important;letter-spacing:2px!important;padding:10px 7px!important;background:rgba(10,39,90,.9)!important;border-radius:8px 0 0 0!important;color:#fff!important}
+#section-assessment .flip-card-hint svg{width:15px!important;height:15px!important;opacity:1!important;stroke-width:2.5}
+
+#section-retention .expert-credit{max-width:760px;margin:40px auto 0;color:rgba(30,77,157,.8);text-align:left}
+@media(max-width:639px){#section-retention .expert-credit{margin-top:28px}}
+
+/* Desktop credit belongs to the whole feature, outside the final white chapter panel. */
+#section-retention .expert-credit-mobile{display:none}
+#section-retention .expert-credit-desktop{display:block;max-width:var(--editorial-container-width,1024px);margin:24px auto 0;padding:0 16px;box-sizing:border-box}
+@media(max-width:639px){#section-retention .expert-credit-mobile{display:block}#section-retention .expert-credit-desktop{display:none}}
+
+/* Slightly larger feature-wide expert credit on desktop and mobile. */
+#editorial-main-content #section-retention .expert-credit{font-size:19px!important;line-height:1.75!important}
+
+@media(min-width:640px){#section-retention .expert-credit-desktop{text-align:center}}
+
+/* Override the shared note typography for the feature expert credit. */
+#editorial-main-content #section-retention .expert-credit.type-normalized[data-type="note"]{--role-size:14px;font-size:14px!important;line-height:1.75!important}
+
+/* Align the desktop feature credit with the retention checklist's left edge. */
+@media(min-width:640px){
+ #section-retention .expert-credit-desktop{max-width:760px;width:calc(100% - 112px);padding-left:0;padding-right:0;text-align:left;margin-left:auto;margin-right:auto}
+}
+@media(min-width:640px) and (max-width:767px){
+ #section-retention .expert-credit-desktop{width:calc(100% - 112px)}
+}
+
+/* Give the desktop retention explanations room to stay on one line closer to the illustration. */
+@media(min-width:1024px){#section-retention .retention-corner-layout .retention-list>li:nth-child(-n+3){padding-right:300px}}
+
+/* Lift and slightly reduce the desktop retainer artwork. */
+@media(min-width:1024px){#section-retention .retention-corner-illustration{top:50px;width:399px}}
+
+/* B version uses the original solid white navigation at all scroll positions. */
+body #ch-header,body #ch-header.is-scrolled,html.menu-open #ch-header{background-color:#fff;box-shadow:0 2px 8px rgba(0,0,0,.14);-webkit-box-shadow:0 2px 8px rgba(0,0,0,.14)}
+body #ch-header:not(.is-scrolled) #ch-nav-wrap>li>a:hover,body #ch-header:not(.is-scrolled) #ch-nav-wrap>li>a:focus-visible{color:#1e4d9d}
+
+/* Softer B navigation shadow without a hard-looking lower edge. */
+body #ch-header,body #ch-header.is-scrolled,html.menu-open #ch-header{box-shadow:0 5px 16px rgba(0,0,0,.055);-webkit-box-shadow:0 5px 16px rgba(0,0,0,.055)}

diff --git a/smile-rwd-B/hero-photo.css b/smile-rwd-B/hero-photo.css
@@ -184,4 +184,16 @@
 @media(max-width:639px){.photo-hero-b>.photo-hero-scroll{bottom:26px;left:50%}}
 
 /* Move the B headline and subtitle together down another 20px. */
-.photo-hero-b .photo-hero-copy-inner{position:relative;top:20px}
+.photo-hero-b .photo-hero-copy-inner{position:relative;top:25px}
+
+/* Reserve a clear band above the portrait for the fixed navigation at every aspect ratio. */
+@media(min-width:640px){
+ #editorial-main-content .photo-hero-b{background:#f5f5f6}
+ .photo-hero-b .photo-hero-media{top:72px;bottom:0}
+ .photo-hero-b .photo-hero-media img{object-position:center top}
+}
+@media(max-width:639px){#editorial-main-content .photo-hero-b{padding-top:64px}}
+
+/* Match portrait clearance exactly to the real navigation height. */
+@media(min-width:640px){.photo-hero-b .photo-hero-media{top:var(--b-header-height,72px)}}
+@media(max-width:639px){#editorial-main-content .photo-hero-b{padding-top:var(--b-header-height,64px)}}

diff --git a/smile-rwd-B/hero-entrance.js b/smile-rwd-B/hero-entrance.js
@@ -10,3 +10,15 @@
   requestAnimationFrame(()=>requestAnimationFrame(()=>{hero.classList.remove('hero-entrance-pending');hero.classList.add('hero-entrance-playing');}));
  }catch(error){hero.classList.remove('hero-entrance-pending');}
 })();
+
+// Keep the portrait flush with the solid B header as navigation height changes.
+(() => {
+ function align(){
+  const header=document.getElementById('ch-header'),hero=document.querySelector('.photo-hero-b');
+  if(!header||!hero)return;
+  const update=()=>hero.style.setProperty('--b-header-height',header.getBoundingClientRect().height+'px');
+  update();window.addEventListener('resize',update,{passive:true});
+  if('ResizeObserver' in window)new ResizeObserver(update).observe(header);
+ }
+ if(document.readyState==='loading')document.addEventListener('DOMContentLoaded',align,{once:true});else align();
+})();
